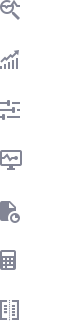
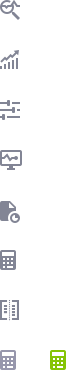
디자인 수정

diff --git a/client/assets/css/common.css b/client/assets/css/common.css
@@ -807,6 +807,11 @@ input[type='file']{
 .oper_list_icon span.icon7{background-position:6px -296px;}
 .oper_list_icon.select span.icon7{background-position:-44px -296px;}
 
+
+.calcu_icon{width:30px; height:30px; background: url(../img/oper_list_icon.png) no-repeat 7px -345px; display:inline-block;}
+.calcu_icon:hover{width:30px; height:30px; background: url(../img/oper_list_icon.png) no-repeat -43px -345px; display:inline-block;}
+
+
 .ETPInavpop1 .theme--light.v-list{background: #fff;}
 .ETPInavpop1 .v-list__tile__title{width:180px;}
 .ETPInavpop1 .v-list__tile__content{ overflow:visible !important; }
@@ -879,10 +884,10 @@ input[type='file']{
 .v-card__title.pop_pdf{padding-bottom:0px !important;padding-top:16px !important}
 .pdf_calendar{width:150px;font-weight: 400; display:inline-block;}
 .pdf_calendar .v-messages{display:none;}
-.pdf_mody_w .v-toolbar{ border-top:1px solid #a3cbe3 !important;  background-color:#f4fbff !important;}
-.pdf_mody_w .pdf_t{font-size: 16px !important; color:#ff4366; font-weight: 600;}
+.pdf_mody_w .v-toolbar{ border-top:1px solid #adcd86 !important;  background-color:#fafff4 !important;}
+.pdf_mody_w .pdf_t{font-size: 14px !important; color:#ff4366; font-weight: 600;}
 .pdf_mody_w .v-icon{padding-right:10px; line-height: 16px;}
-.pdf_mody_w .v-toolbar__content{height:54px !important; width:100% !important;}
+.pdf_mody_w .v-toolbar__content{height:50px !important; width:100% !important;}
 .width_fix{width:120px !important; background:#ffffff;}
 .width_fix2{width:350px !important; background:#ffffff;}
 

diff --git a/client/src/components/Home/Etp/Manage/EtpOperInfo.vue b/client/src/components/Home/Etp/Manage/EtpOperInfo.vue
@@ -73,6 +73,25 @@
                                     </tr>
                                 </thead>                                
                             </table>
+                            <!--투자지표 아이콘 변경
+                            <table id="" class="tbl_type ver7" style="width:100%">
+
+                                 <thead>
+                                    <tr>
+                                        <th class="txt_left">투자지표 아이콘</th>
+                                    </tr>
+
+                                </thead>
+                                <tbody>
+                                    <tr>
+                                        <td><div class="tooltip"><button type="button" name="" class="calcu_icon"></button><span class="tooltiptext" style="width:70px;">투자지표</span></div></td>
+                                    </tr>
+                                    <tr>
+                                            <td>test</td>
+                                    </tr>
+                                </tbody>                               
+                            </table>
+                            --->
                             
                         </div>                        
                     </v-card>
